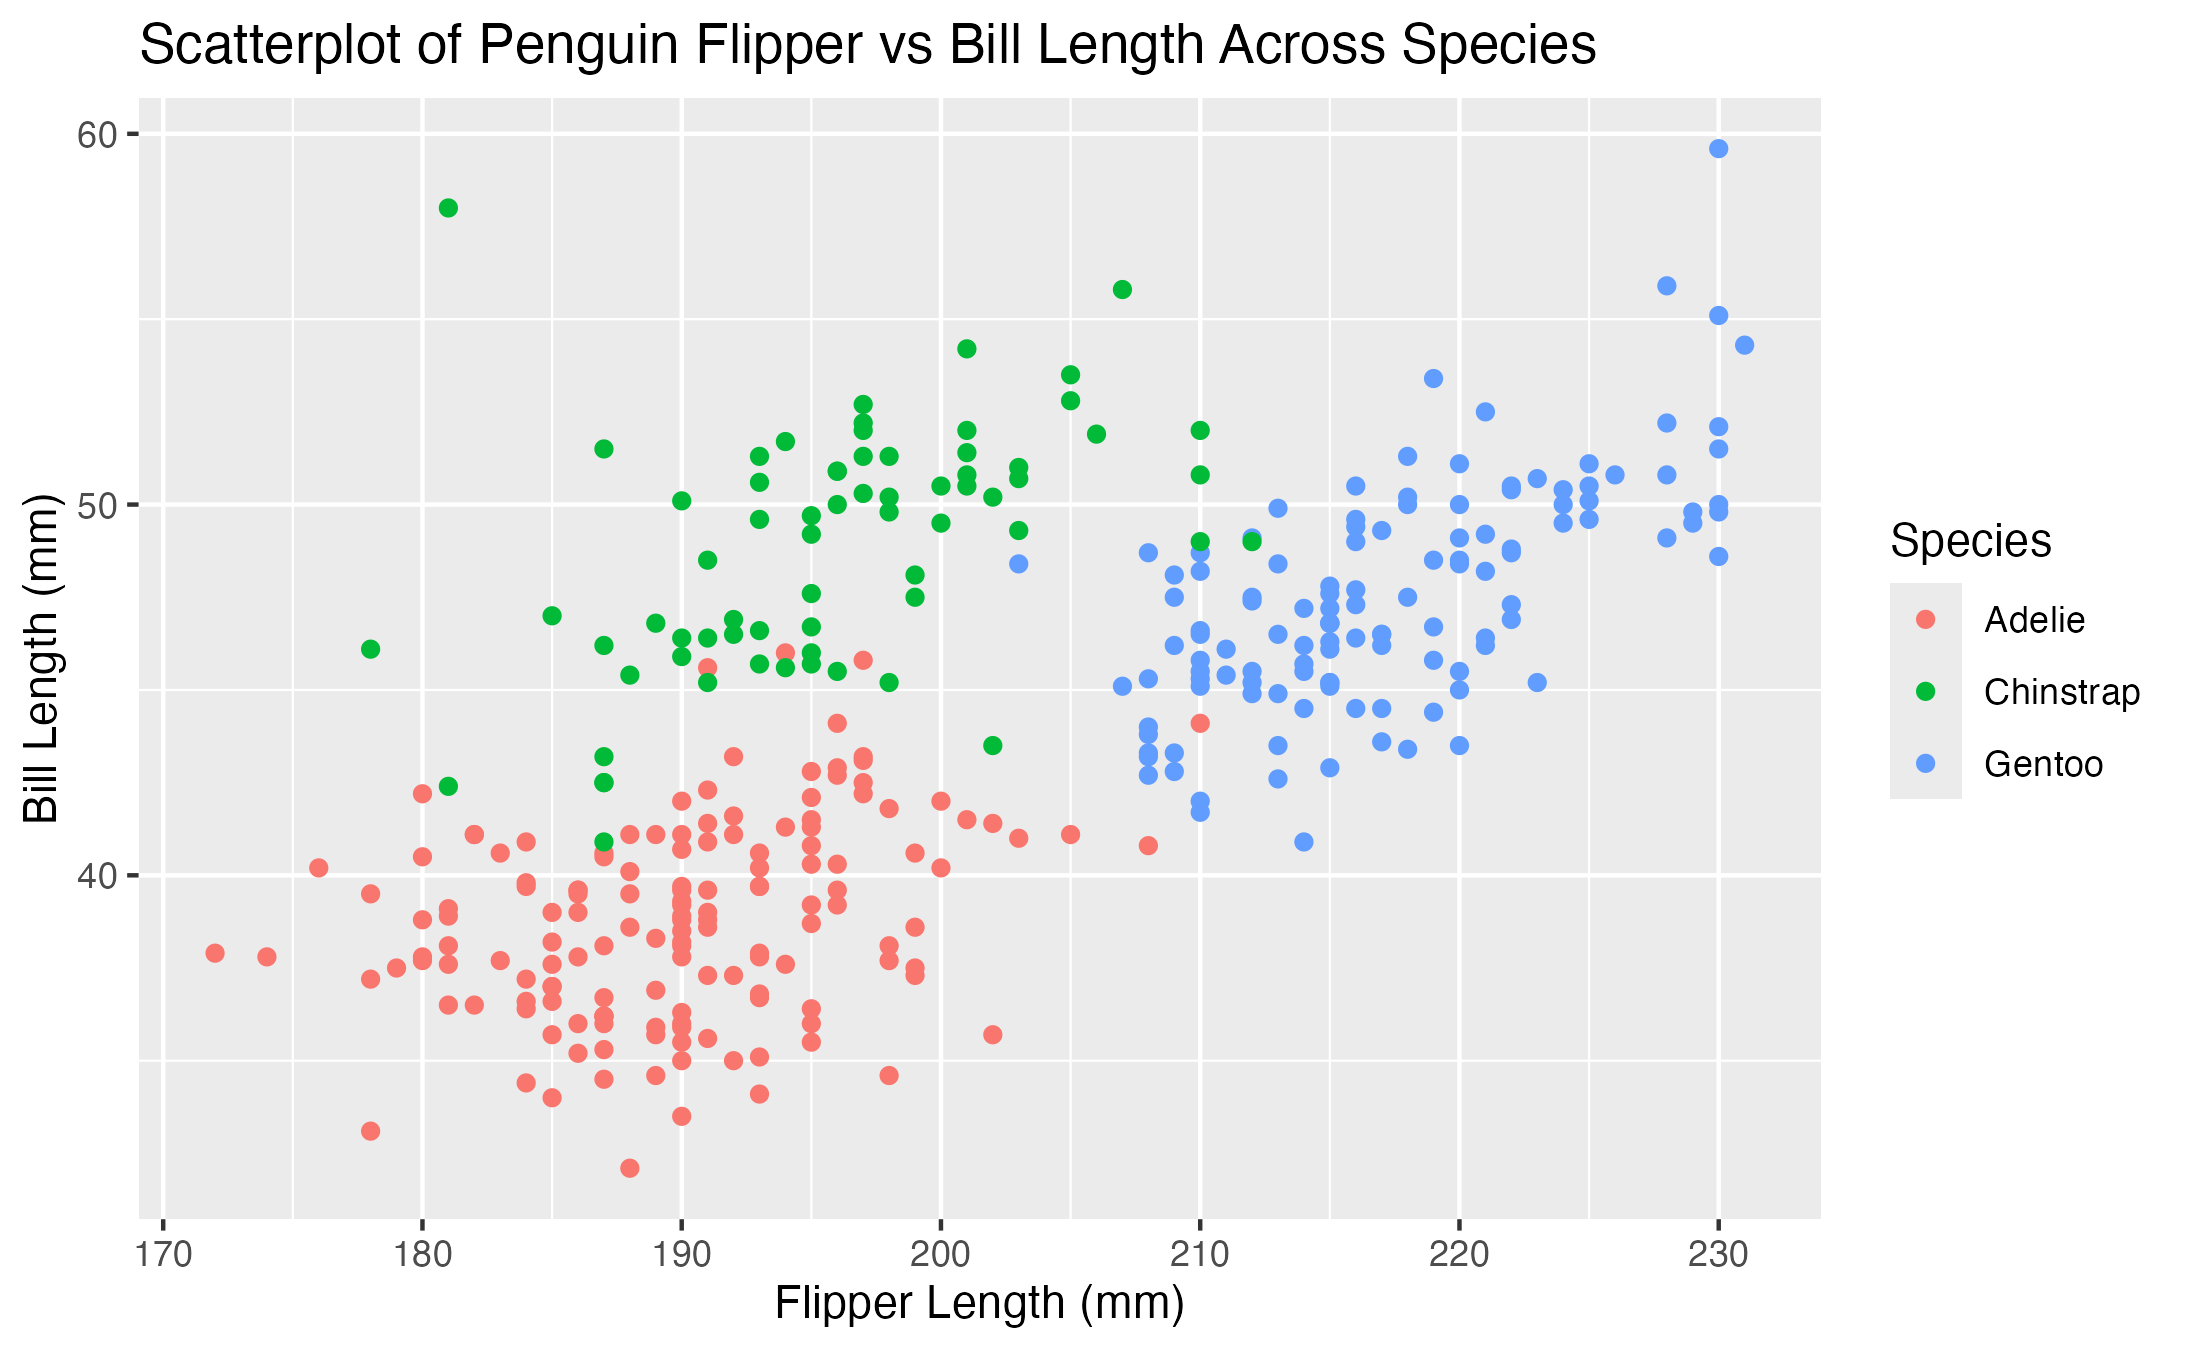
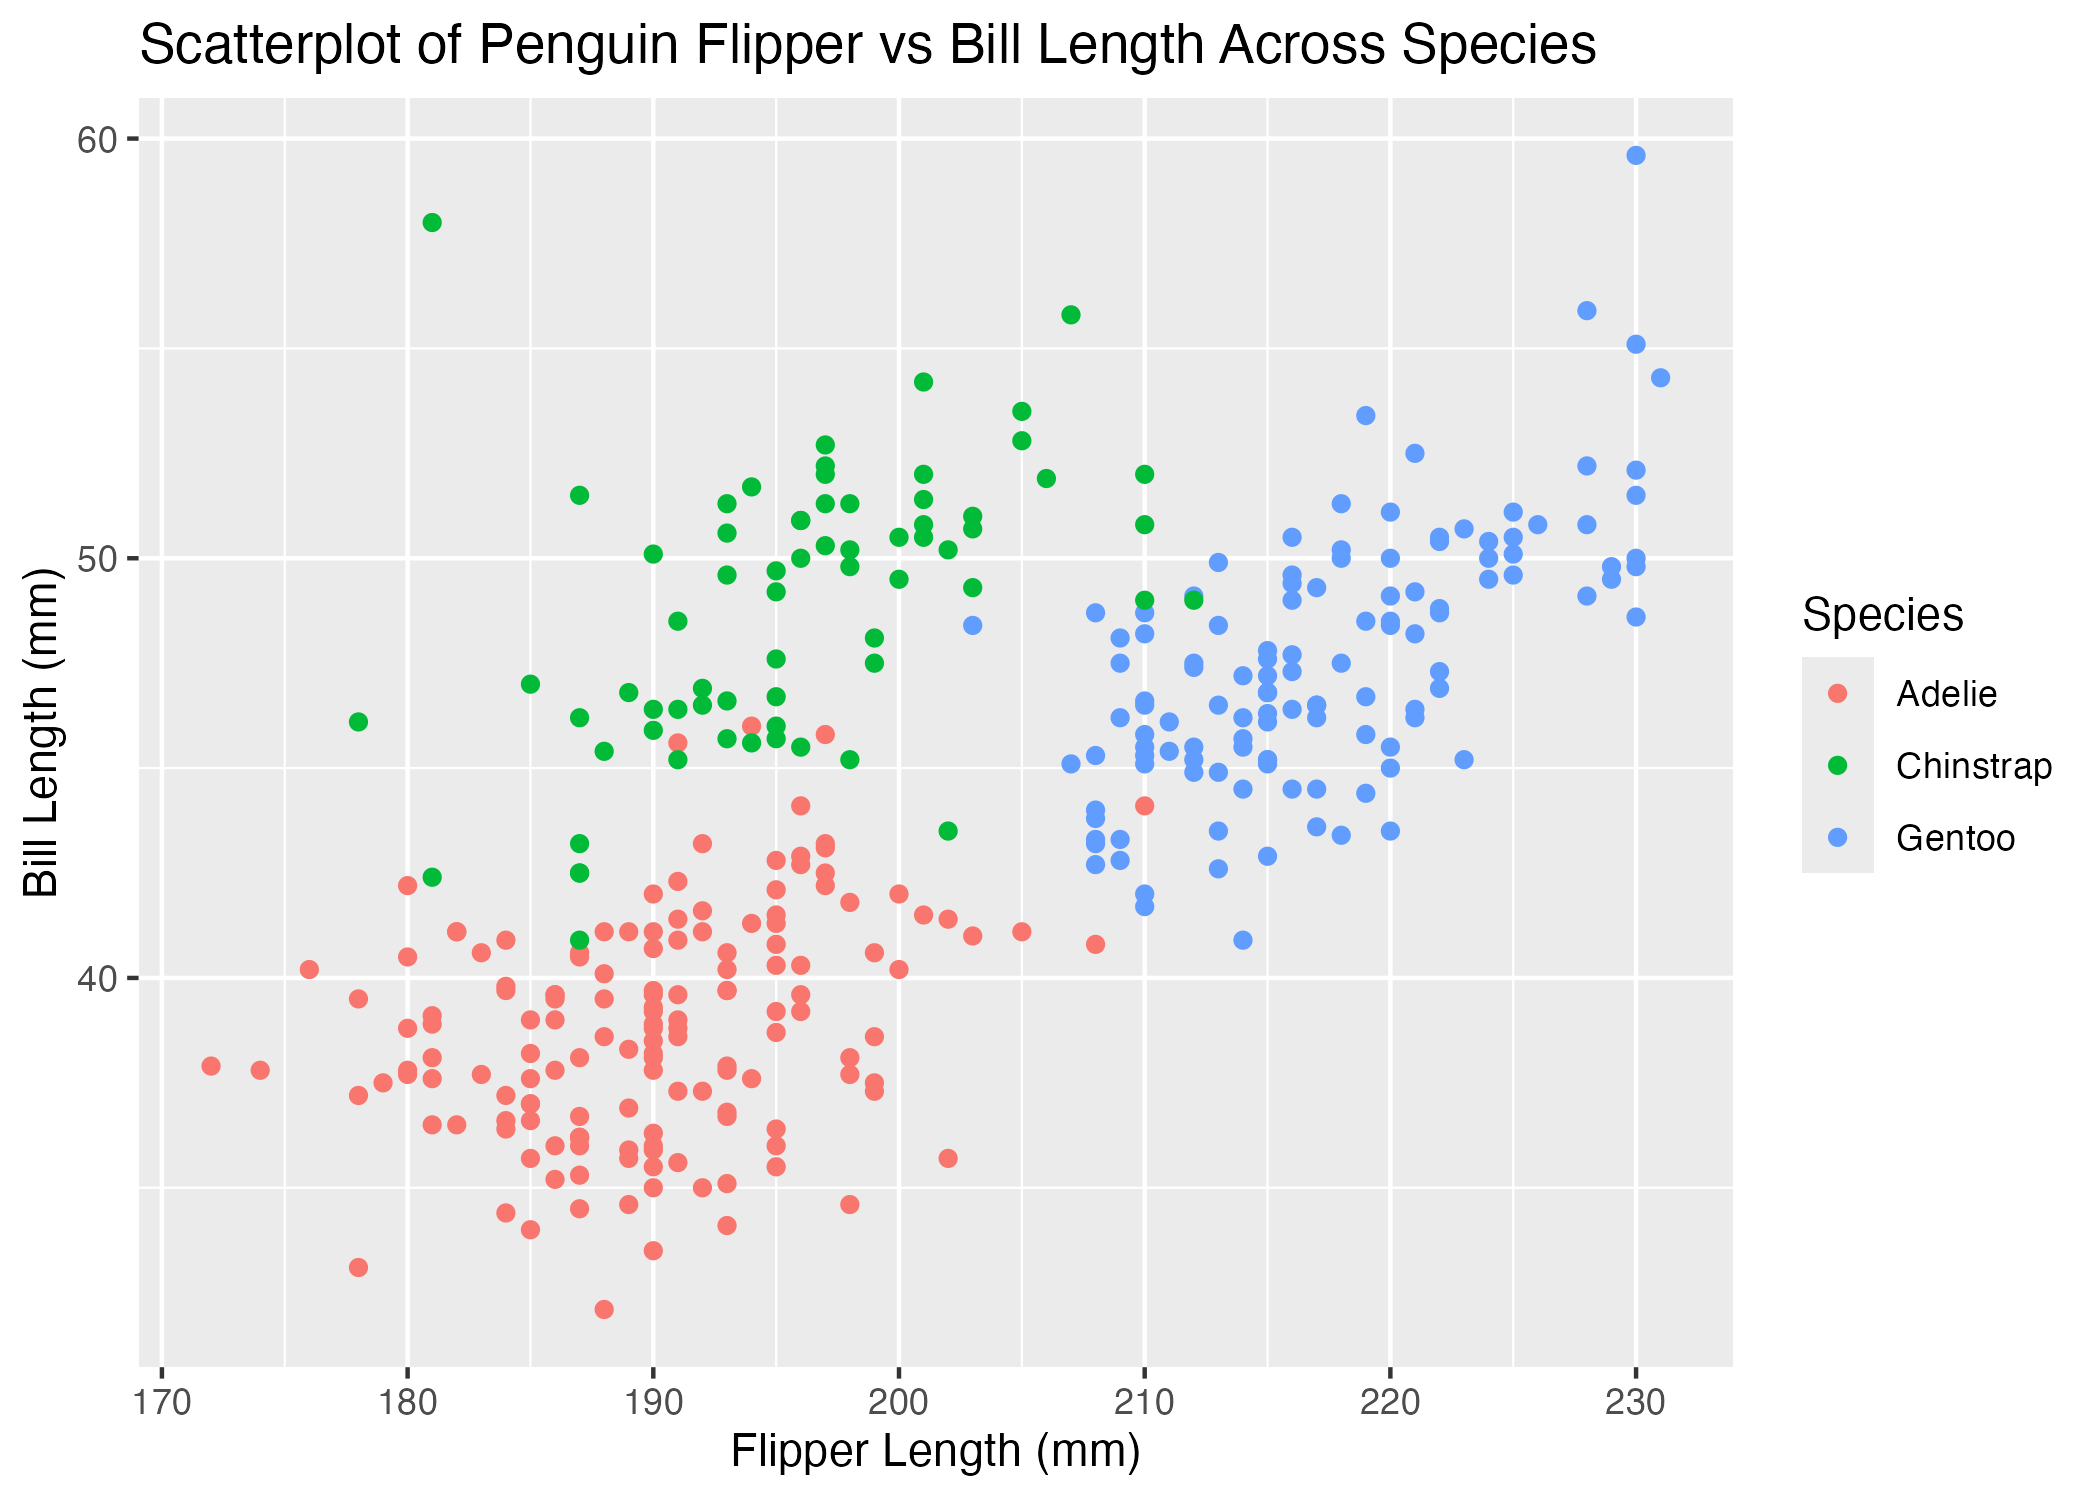
Added rmd.

diff --git a/p8105_hw1_jsm2298.md b/p8105_hw1_jsm2298.md
@@ -1,0 +1,135 @@
+p8105_hw1_jsm2298
+================
+Jonathan Morris
+2026-09-22
+
+# Load Packages
+
+``` r
+library(tidyverse)
+```
+
+    ## ── Attaching core tidyverse packages ──────────────────────── tidyverse 2.0.0 ──
+    ## ✔ dplyr     1.1.4     ✔ readr     2.1.5
+    ## ✔ forcats   1.0.0     ✔ stringr   1.5.1
+    ## ✔ ggplot2   3.5.2     ✔ tibble    3.3.0
+    ## ✔ lubridate 1.9.4     ✔ tidyr     1.3.1
+    ## ✔ purrr     1.2.0     
+    ## ── Conflicts ────────────────────────────────────────── tidyverse_conflicts() ──
+    ## ✖ dplyr::filter() masks stats::filter()
+    ## ✖ dplyr::lag()    masks stats::lag()
+    ## ℹ Use the conflicted package (<http://conflicted.r-lib.org/>) to force all conflicts to become errors
+
+``` r
+library(ggplot2)
+library(palmerpenguins)
+```
+
+    ## 
+    ## Attaching package: 'palmerpenguins'
+    ## 
+    ## The following objects are masked from 'package:datasets':
+    ## 
+    ##     penguins, penguins_raw
+
+# Question 1:
+
+## Load Data
+
+``` r
+data("penguins", package = "palmerpenguins")
+```
+
+## Penguins Data Description:
+
+The penguins dataset includes size measurements of adult foraging
+penguins near the Palmer research station in Antarctica. The data
+contains variables such as the species of the penguin, which island they
+were found and measured on, both bill and flipper length in mm, bill
+depth, body mass, sex, and the year the data was collected. The data has
+344 rows and 8 columns. The mean flipper length is 200.9152 millimeters.
+
+## Penguin Data Scatterplot:
+
+    ## Warning: Removed 2 rows containing missing values or values outside the scale range
+    ## (`geom_point()`).
+
+![](p8105_hw1_jsm2298_files/figure-gfm/unnamed-chunk-3-1.png)<!-- -->
+
+    ## Saving 7 x 5 in image
+
+    ## Warning: Removed 2 rows containing missing values or values outside the scale range
+    ## (`geom_point()`).
+
+# Question 2:
+
+## Create Data Frame:
+
+``` r
+## First, set our seed for reproducibility:
+set.seed(112)
+
+## Now generate the data:
+rand_df <- tibble(
+  rand_num = rnorm(10),
+  rand_logic = case_when(
+    rand_num > 0 ~ TRUE,
+    TRUE ~ FALSE
+  ),
+  rand_char = c('my', 'all', 'time', 'favorite', 'alliums', 'are', "the", "onion", "and", "scallion"),
+  rand_fac = as.factor(rbinom(10, 2, 0.5))
+)
+
+pull(rand_df, rand_num)
+```
+
+    ##  [1] -0.3142317  2.4033751 -0.7182640 -1.7606110 -1.1252812 -0.7195406
+    ##  [7]  1.3102240  0.4518985  0.1521774  0.6533708
+
+## Attempt to take some means:
+
+``` r
+# Mean of random numeric vector:
+m <- mean(pull(rand_df, rand_num))
+
+paste0("The mean of our random sample is: ", m)
+```
+
+    ## [1] "The mean of our random sample is: 0.0333117336898153"
+
+``` r
+# Mean of random logical vector:
+m <- mean(pull(rand_df, rand_logic))
+
+paste0("The mean of our random logical vector is: ", m)
+```
+
+    ## [1] "The mean of our random logical vector is: 0.5"
+
+``` r
+# Mean of character vector:
+m <- mean(pull(rand_df, rand_char))
+```
+
+    ## Warning in mean.default(pull(rand_df, rand_char)): argument is not numeric or
+    ## logical: returning NA
+
+``` r
+paste0("The mean of our character vector is: ", m, ", meaning that we cannot take the mean of a character vector.")
+```
+
+    ## [1] "The mean of our character vector is: NA, meaning that we cannot take the mean of a character vector."
+
+``` r
+# Mean of character vector:
+m <- mean(pull(rand_df, rand_fac))
+```
+
+    ## Warning in mean.default(pull(rand_df, rand_fac)): argument is not numeric or
+    ## logical: returning NA
+
+``` r
+paste0("The mean of our factor vector is: ", m, ", meaning that we cannot take the mean of a factor vector.")
+```
+
+    ## [1] "The mean of our factor vector is: NA, meaning that we cannot take the mean of a factor vector."
